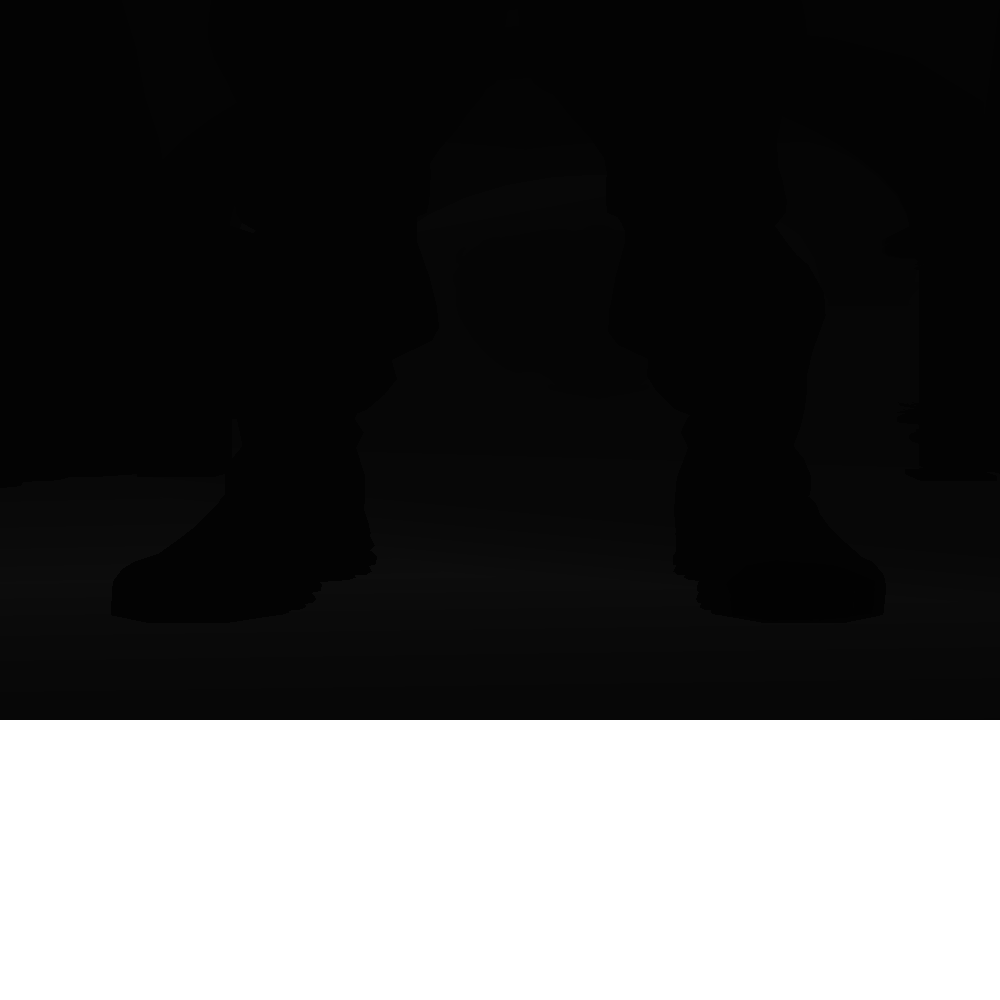
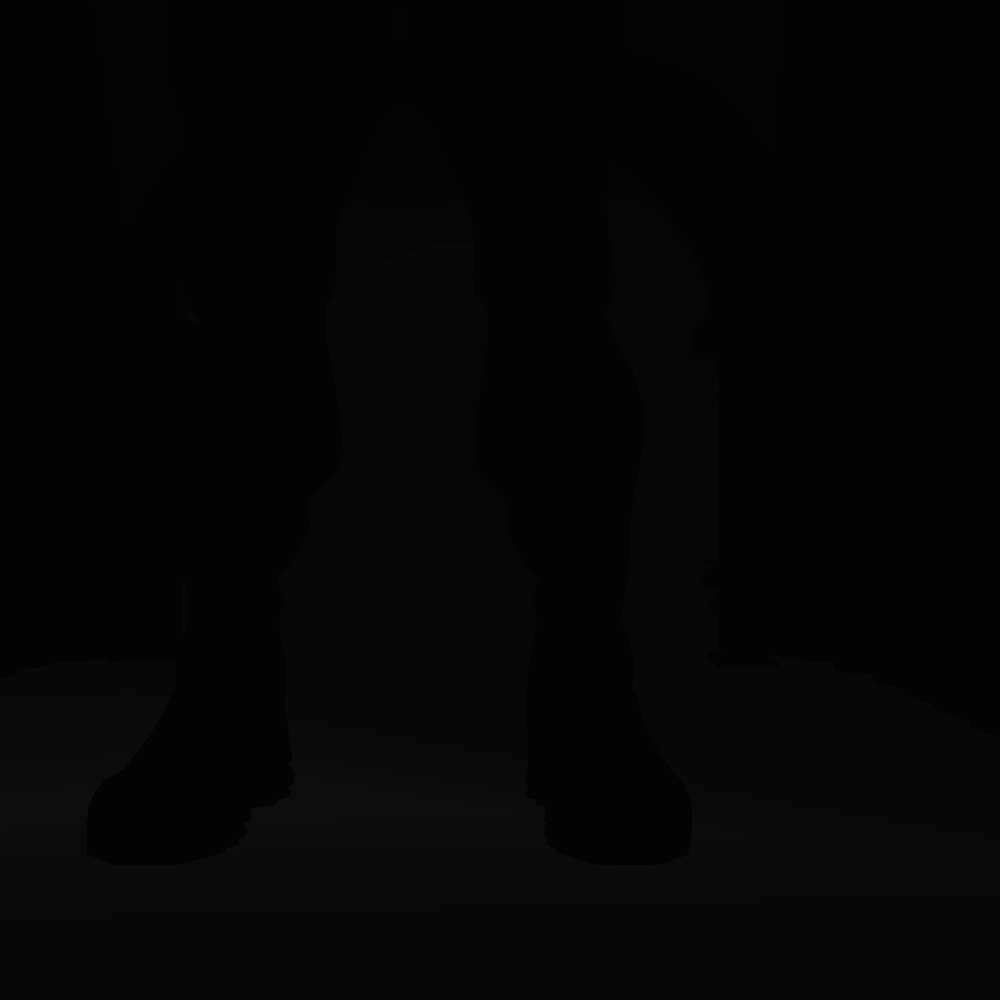
[T58] - (24:35) - <shadow viewport fixed>

Changed region(s): [[0.0, 0.713, 1.0, 1.0]]

diff --git a/CTN_05_Hardware_3D_DirectX/src/Viewport.h b/CTN_05_Hardware_3D_DirectX/src/Viewport.h
@@ -8,10 +8,14 @@ namespace Bind
 	class Viewport : public Bindable
 	{
 	public:
-		Viewport(Graphics& gfx, float maxDepth = 1.0f)
+		Viewport(Graphics& gfx)
+			:
+			Viewport(gfx, (float)gfx.GetWidth(), (float)gfx.GetHeight())
+		{}
+		Viewport(Graphics& gfx, float width, float height)
 		{
-			vp.Width = (float)gfx.GetWidth();
-			vp.Height = (float)gfx.GetHeight();
+			vp.Width = width;
+			vp.Height = height;
 			vp.MinDepth = 0.0f;
 			vp.MaxDepth = 1.0f;
 			vp.TopLeftX = 0.0f;

diff --git a/CTN_05_Hardware_3D_DirectX/src/ShadowMappingPass.h b/CTN_05_Hardware_3D_DirectX/src/ShadowMappingPass.h
@@ -36,7 +36,7 @@ namespace Rgph
 			AddBind(NullPixelShader::Resolve(gfx));
 			AddBind(Stencil::Resolve(gfx, Stencil::Mode::Off));
 			AddBind(Blender::Resolve(gfx, false));
-			AddBind(std::make_shared<Viewport>(gfx, 100.0f));
+			AddBind(std::make_shared<Viewport>(gfx, (float)size, (float)size));
 			AddBind(std::make_shared<Bind::ShadowRasterizer>(gfx, 50, 2.0f, 0.1f));
 			RegisterSource(DirectBindableSource<Bind::DepthCubeTexture>::Make("map", pDepthCube));
 
